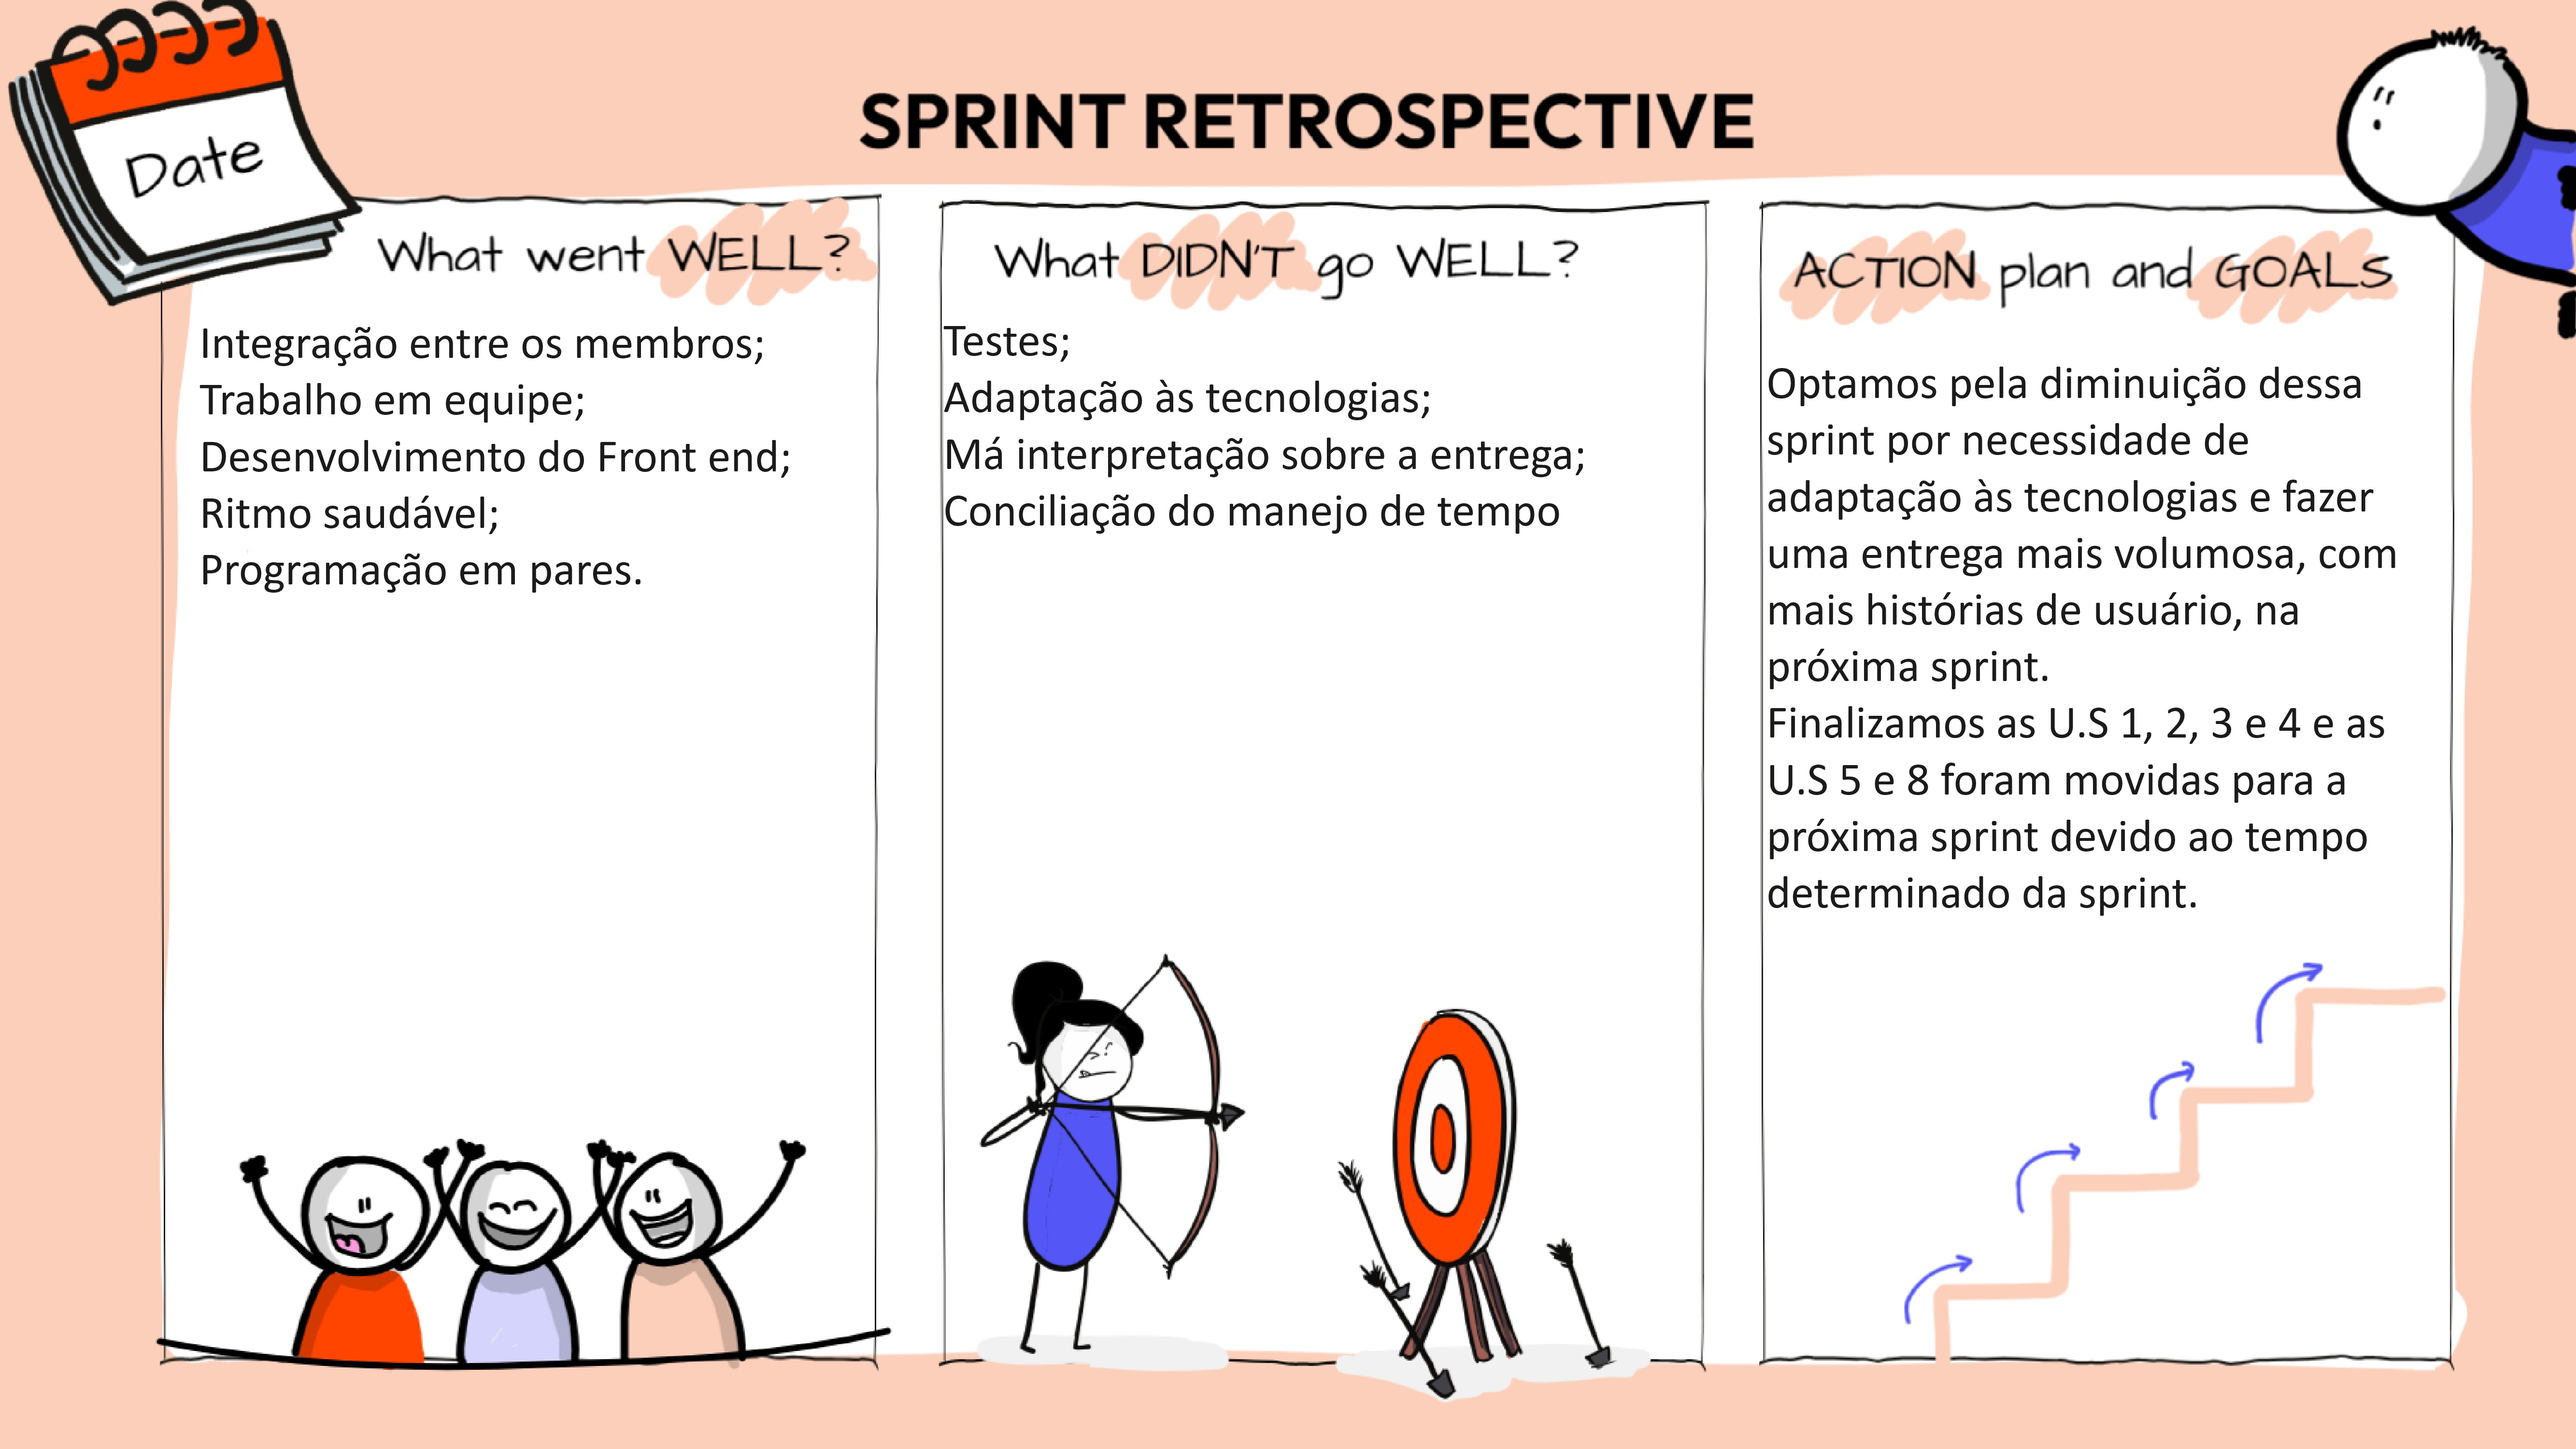
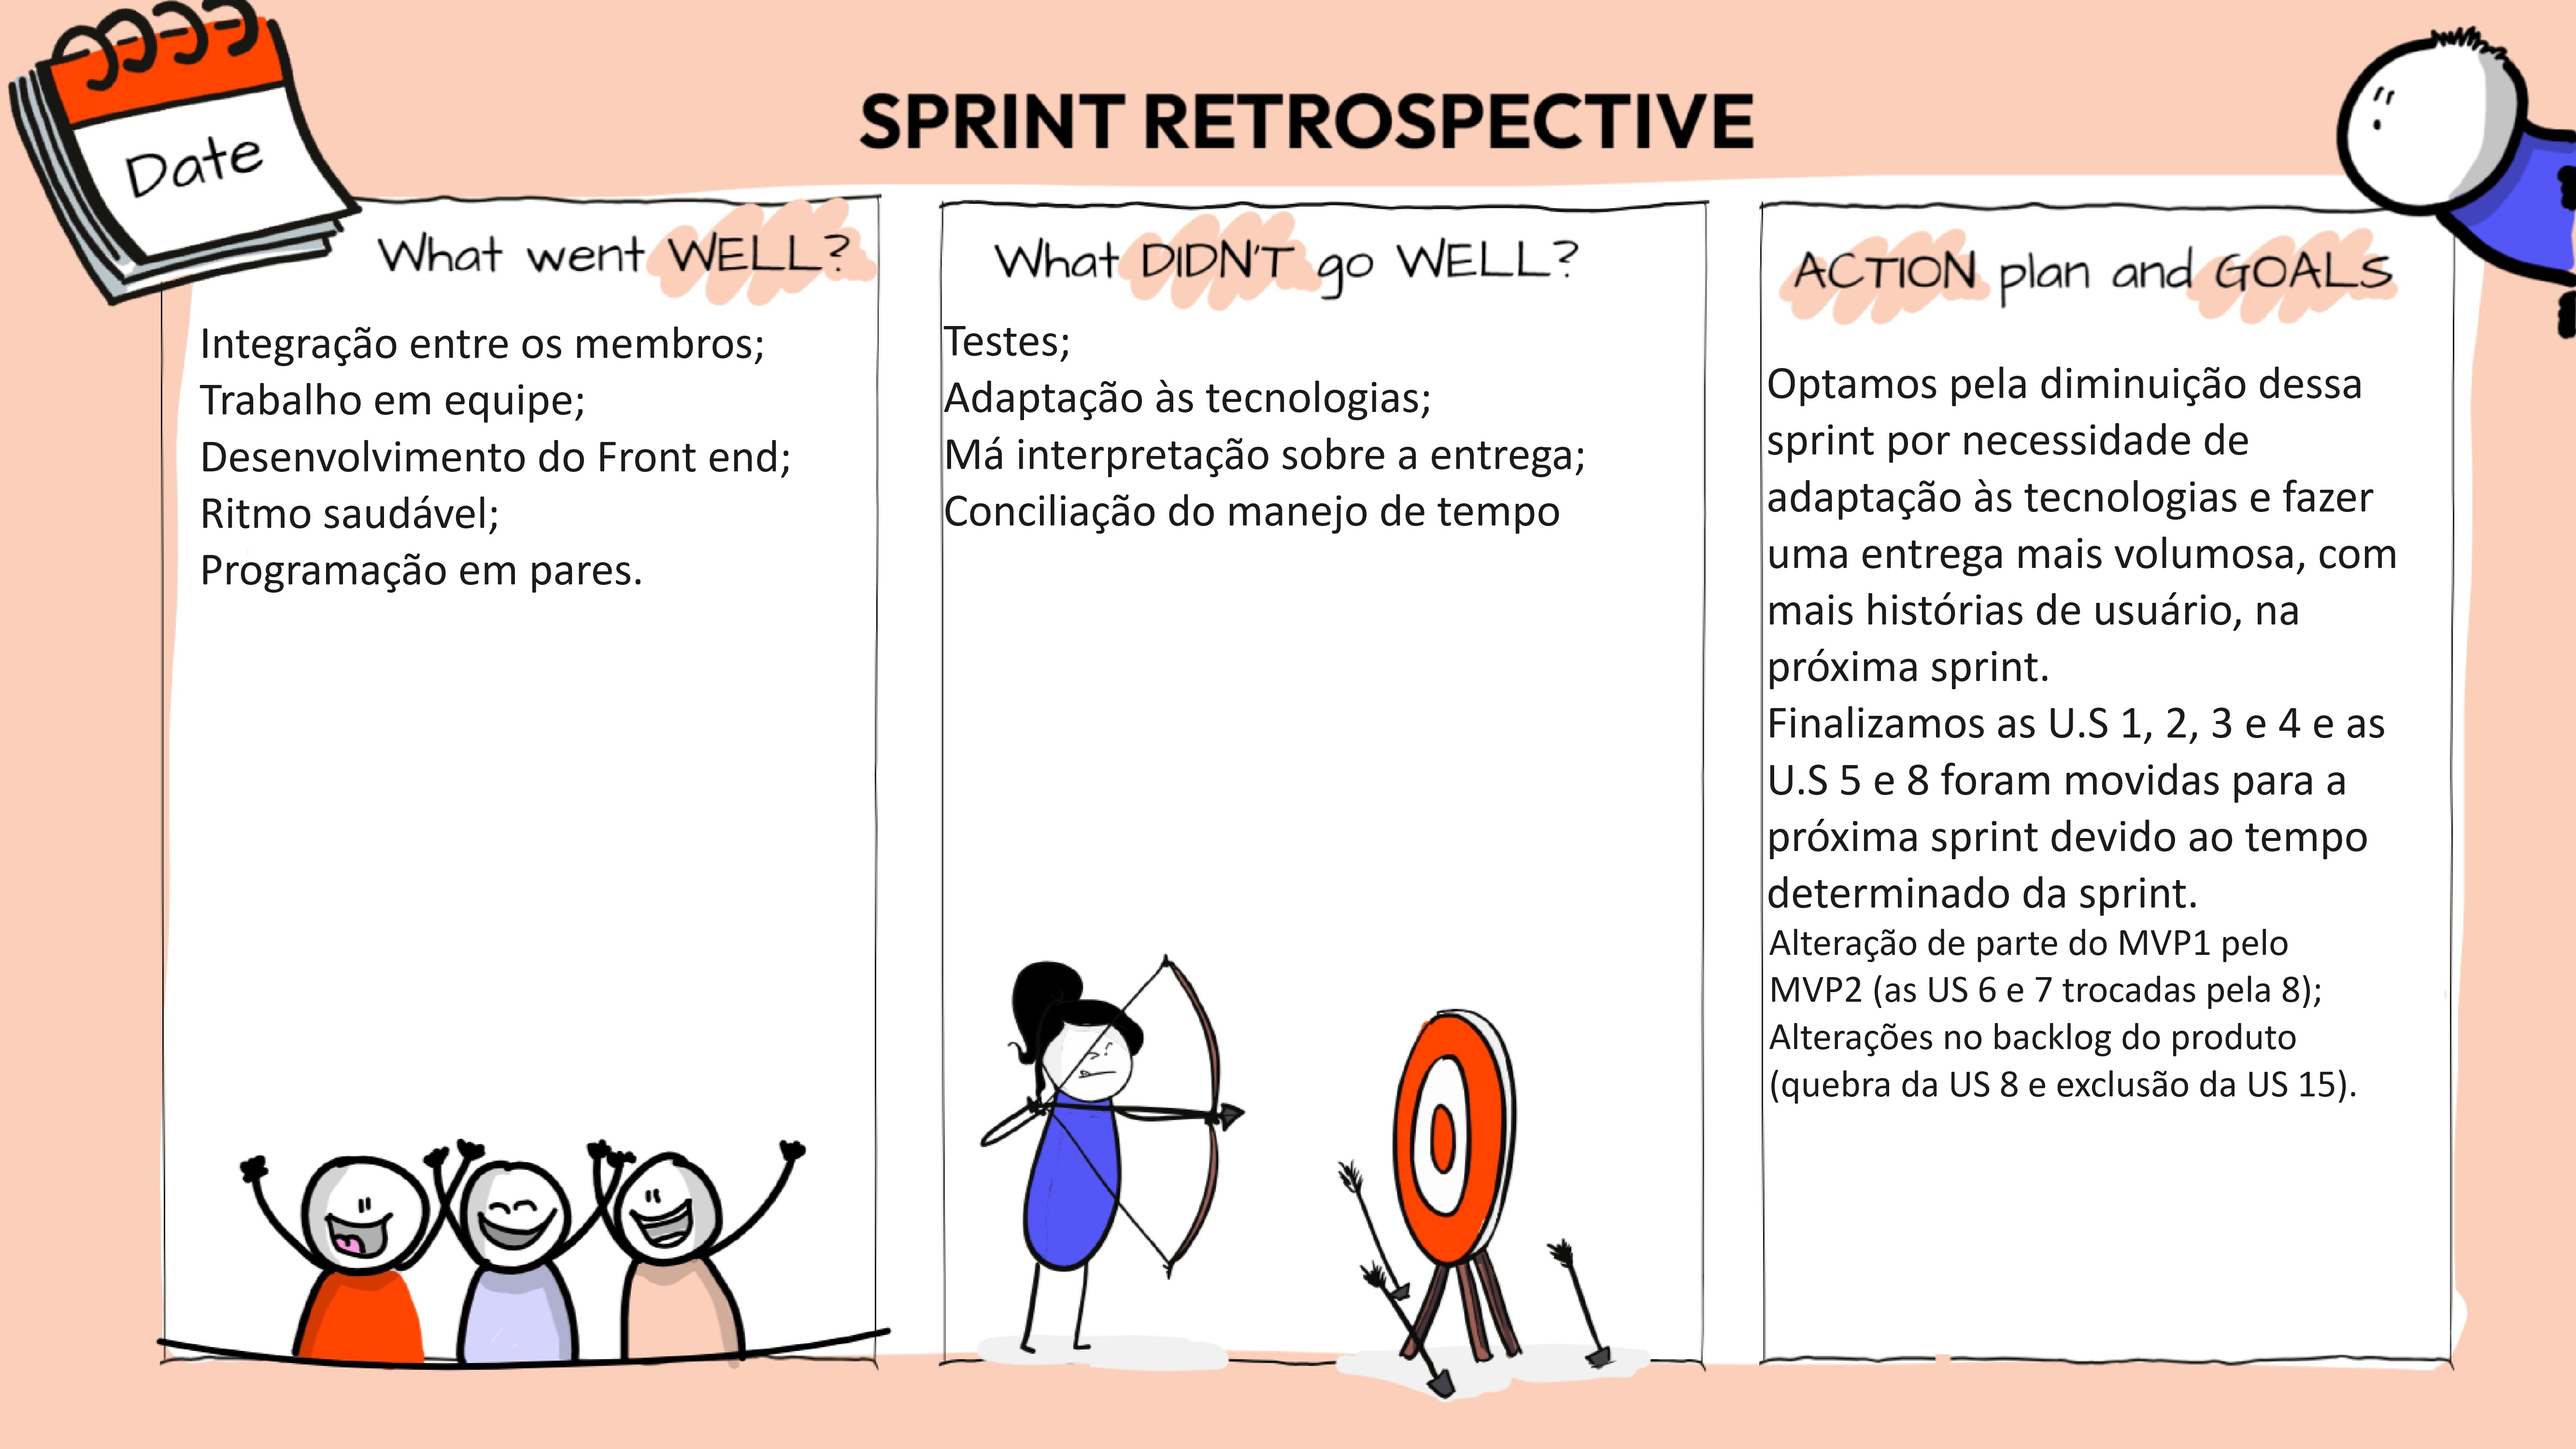
att Sprint 1

Changed region(s): [[0.6848, 0.651, 0.9649, 0.93]]

diff --git a/SportLifeDoc/site/Sprint_1/index.html b/SportLifeDoc/site/Sprint_1/index.html
@@ -504,19 +504,19 @@
 <td>Desenvolver cadastro (US 3 e 4);</td>
 </tr>
 <tr>
-<td></td>
+<td>---</td>
 <td>Desenvolve autenticação (US 1 e 2);</td>
 </tr>
 <tr>
-<td></td>
+<td>---</td>
 <td>Produzir recuperação de senha (US 5);</td>
 </tr>
 <tr>
-<td></td>
+<td>---</td>
 <td>Elaborar Próximas Consultas (US 8);</td>
 </tr>
 <tr>
-<td></td>
+<td>---</td>
 <td>Entregas da Unidade 03.</td>
 </tr>
 <tr>
@@ -524,19 +524,19 @@
 <td>Aprendizado de Integração Contínua;</td>
 </tr>
 <tr>
-<td></td>
+<td>---</td>
 <td>US 03: Eu, como usuário, quero cadastrar uma nova conta de usuário para ter acesso ao sistema;</td>
 </tr>
 <tr>
-<td></td>
+<td>---</td>
 <td>US 04: Eu, como funcionário, quero cadastrar uma nova conta de funcionário para ter acesso ao sistema;</td>
 </tr>
 <tr>
-<td></td>
+<td>---</td>
 <td>US 01: Eu, como funcionário, quero me autenticar usando um login para ter acesso a todas as funcionalidades disponíveis aos funcionários;</td>
 </tr>
 <tr>
-<td></td>
+<td>---</td>
 <td>US 02: Eu, como usuário, quero me autenticar usando um login para ter acesso a todas as funcionalidades disponíveis aos usuários.</td>
 </tr>
 <tr>
@@ -552,7 +552,7 @@
 <td>US 5 e 8;</td>
 </tr>
 <tr>
-<td></td>
+<td>---</td>
 <td>Justificativa: por conta de problemas técnicos com a plataforma de desenvolvimento e com a plataforma de integração o tempo estimado da sprint não foi o suficiente para a confecção de todas as histórias propóstas pelo grupo.</td>
 </tr>
 <tr>
@@ -560,11 +560,11 @@
 <td>Pontos positivos: integração entre os membros, bastante interesse e trabalho em equipe por parte de todos, desenvolvimento fluido do front end, ritmo saudável e programação em pares;</td>
 </tr>
 <tr>
-<td></td>
+<td>---</td>
 <td>Pontos negativos: uso devido dos testes, adaptação às tecnologias, má interpretação sobre como seria feita a entrega, conciliação do manejo de tempo;</td>
 </tr>
 <tr>
-<td></td>
+<td>---</td>
 <td>Melhorias para a próxima sprint: melhor planejamento da sprint, conciliar melhor o tempo disponível, aumentar o número de histórias a serem feitas para evitar atraso ou entrega incompleta.</td>
 </tr>
 </tbody>

diff --git a/SportLifeDoc/docs/Sprint_1.md b/SportLifeDoc/docs/Sprint_1.md
@@ -19,7 +19,7 @@ Na Sprint 1, ocorreu a confecção dos critérios de avaliação das histórias 
 | --- | US 01: Eu, como funcionário, quero me autenticar usando um login para ter acesso a todas as funcionalidades disponíveis aos funcionários; |
 | --- | US 02: Eu, como usuário, quero me autenticar usando um login para ter acesso a todas as funcionalidades disponíveis aos usuários. |
 | Sprint Review | Aprovação da cliente e feedback para que haja uma mudança no cadastro (mudando o CPF pelo número de telefone) e mudança na autenticação (usar o e-mail como usuário); |
-Prioridade para o próximo MVP: realizar mais US’s e conciliar melhor o tempo. |
+| --- | Prioridade para o próximo MVP: realizar mais US’s e conciliar melhor o tempo. |
 | Histórias não realizadas | US 5 e 8;
 | --- | Justificativa: por conta de problemas técnicos com a plataforma de desenvolvimento e com a plataforma de integração o tempo estimado da sprint não foi o suficiente para a confecção de todas as histórias propóstas pelo grupo. |
 | Sprint Retrospective | Pontos positivos: integração entre os membros, bastante interesse e trabalho em equipe por parte de todos, desenvolvimento fluido do front end, ritmo saudável e programação em pares; |
@@ -48,6 +48,7 @@ Prioridade para o próximo MVP: realizar mais US’s e conciliar melhor o tempo.
 
 ## Template do Review da Sprint
 
+![](imagens/Template-Sprint-Review.jpeg)
 
 ## Reunião de deliberação com cliente
 [Vídeo da reunião](https://drive.google.com/file/d/19xnRxK5q0yaLe7Fc2eH_EVp4PDiDAoT3/view?usp=sharing)
